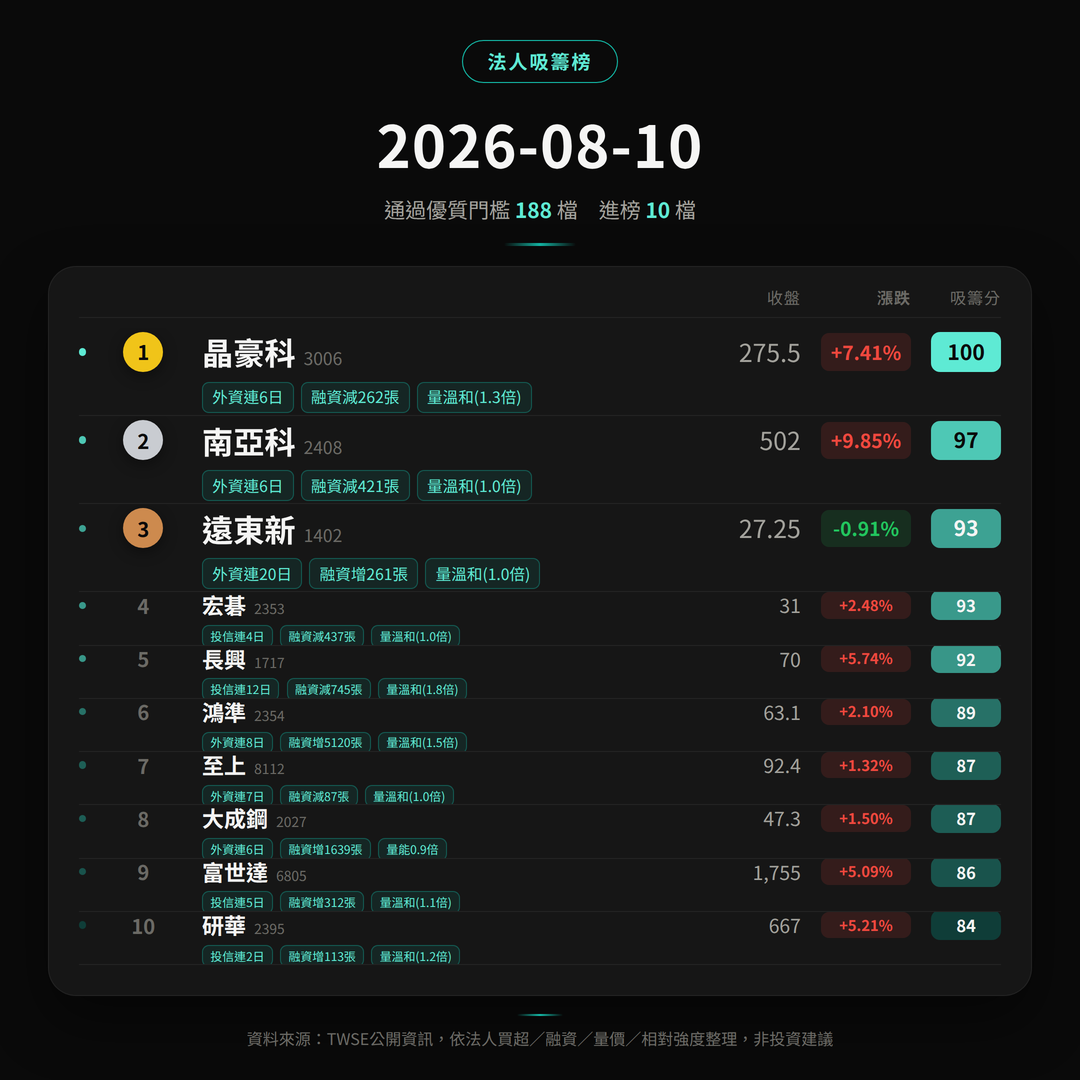
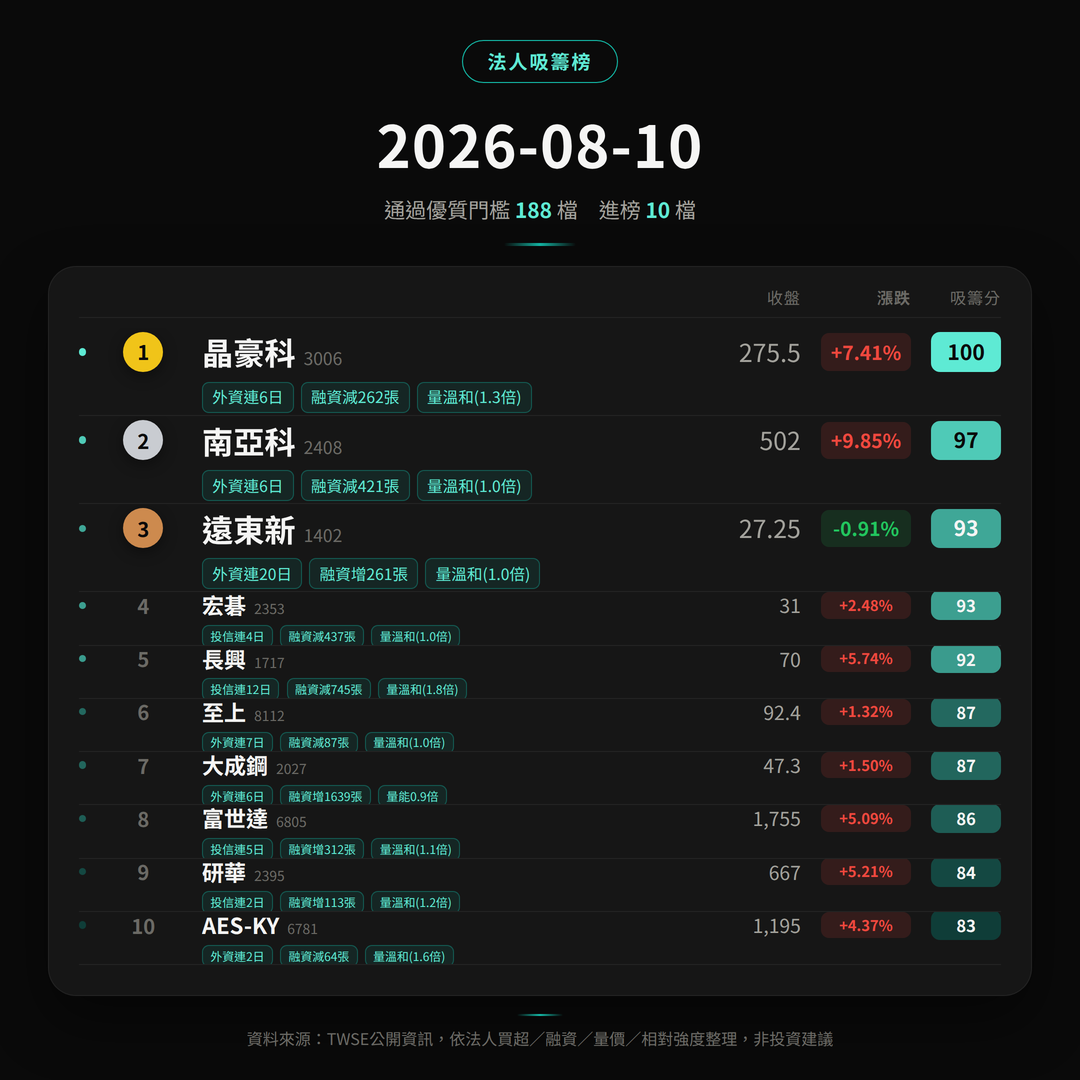
融資veto改用「近5日累計融資增加>3000張」，跟評分維度2的窗口對齊
- MARGIN_INCREASE_VETO_LOTS: 2000（單日）→ 3000（近5日累計）
- check_veto() 的融資判斷改用跟 score_buy_without_retail() 完全相同的近5日
  MarginChange 加總算法，消除「事實標籤寫融資增X張(5日)、但veto只看單日」
  的邏輯矛盾（如鴻準：5日累計+5120張，單日卻是-827張，舊版因此漏踢）
- 全池188檔重跑：vetoed 88檔（前一版本用單日規則是78檔）
- 鴻準(2354) 現在正確被踢除（近5日累計+5120張 > 3000張）
- 晶豪科(3006) 維持在榜（近5日累計是-262張，減少不受這條影響）
- 最終前10名排序不是單純「拿掉鴻準遞補」：6781 AES-KY 進入第10名

diff --git a/score_stocks.py b/score_stocks.py
@@ -86,9 +86,12 @@ RS_SCALE = 2.5  # 相對大盤 +20 個百分點 -> 滿分100；-20個百分點 -
 TOP_N = 10  # veto後倖存者取前 TOP_N 檔；不足 TOP_N 檔就全部列出，不補齊
 
 # ---- Veto 硬性排除層（四維評分算完、排序前執行；不符合任一條直接踢除，不論總分）----
-# 條件1：當日融資「增加」張數 > 此絕對門檻（張）-> 踢除
-#   （只看增加；絕對值門檻，不用比例；若當日融資變化缺資料，這條從寬不踢）
-MARGIN_INCREASE_VETO_LOTS = 2000
+# 條件1：近5日累計融資「增加」張數 > 此絕對門檻（張）-> 踢除
+#   （跟維度2「法人買、散戶沒跟」用同一個近5日窗口與同一種算法（近5日
+#   MarginChange 加總），避免評分事實講「融資增X張(5日)」卻只用單日判斷
+#   veto 的窗口不一致；只看增加，絕對值門檻，不用比例；
+#   近5日融資資料不完整，這條從寬不踢）
+MARGIN_INCREASE_VETO_LOTS = 3000
 # 條件2：當日量能倍數（定義同維度3：當日成交量 / 近5日(不含當日)均量）> 此值 -> 踢除
 VETO_VOLUME_RATIO_HIGH = 2.0
 # 條件3：當日量能倍數 < 此值 -> 踢除
@@ -350,16 +353,16 @@ def check_veto(code, dates_20d, price_by_date, margin_series):
 
     margin_by_date = margin_series.get(code)
     if margin_by_date:
-        today = dates_20d[-1]
-        today_rec = margin_by_date.get(today)
-        if today_rec is not None:
-            margin_change_today = today_rec[1]
-            if margin_change_today > MARGIN_INCREASE_VETO_LOTS:
+        recent_dates = dates_20d[-RECENT_WINDOW:]
+        margin_recs = [margin_by_date.get(d) for d in recent_dates]
+        if all(r is not None for r in margin_recs):
+            margin_chg_5d = sum(r[1] for r in margin_recs)
+            if margin_chg_5d > MARGIN_INCREASE_VETO_LOTS:
                 reasons.append(
-                    f"融資單日增加{margin_change_today:.0f}張"
+                    f"近5日融資累計增加{margin_chg_5d:.0f}張"
                     f"（>{MARGIN_INCREASE_VETO_LOTS}張）"
                 )
-        # 缺當日融資變化資料 -> 從寬不踢，不加入 reasons
+        # 近5日融資資料不完整 -> 從寬不踢，不加入 reasons
 
     ratio = compute_volume_ratio(dates_20d, price_by_date)
     if ratio is not None:
